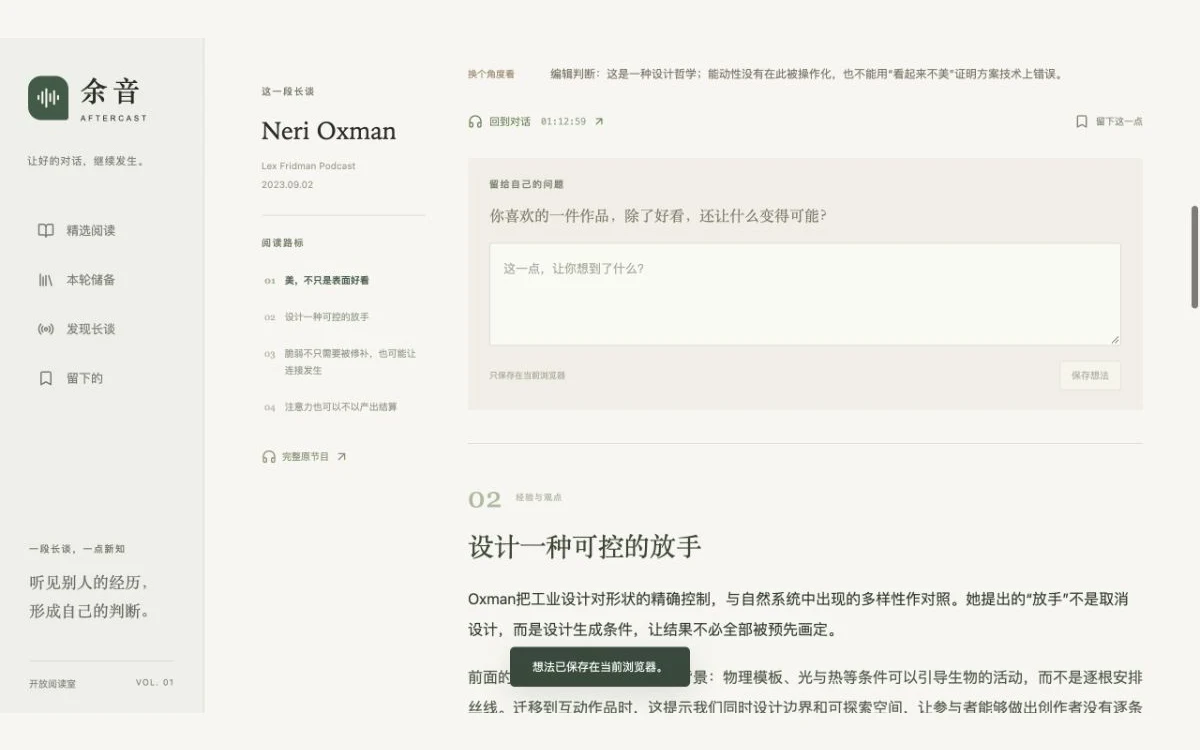
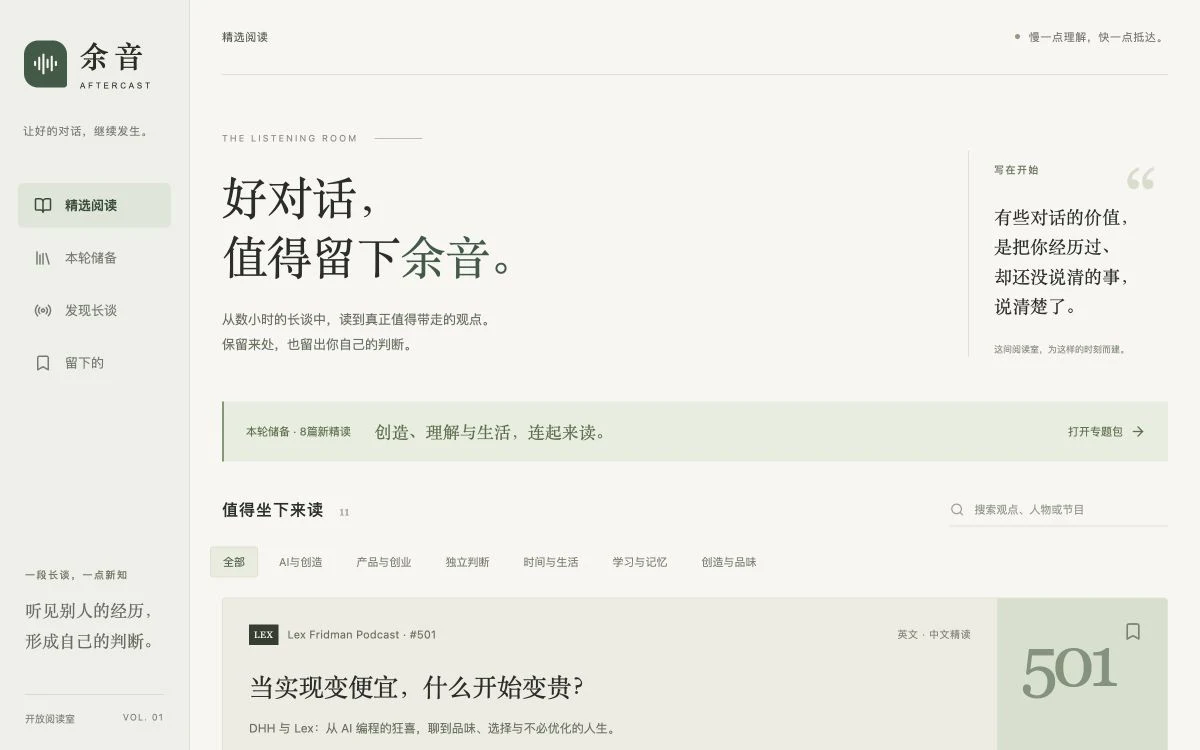
更新余音正式首页封面与首次上线校验记录

diff --git a/docs/ASSETS.md b/docs/ASSETS.md
@@ -162,7 +162,7 @@
 
 ## 2026-10-16 · 余音播客精读
 
-`aftercast.webp`来自余音公开发布构建的真实浏览器截图（原截图1200×675），本轮在隔离本地静态预览读取；测试笔记已清空，未包含私人资料。完整画面纸色补边为1200×750，WebP quality88、sRGB，未重排或伪造产品界面。正式URL为https://aftercast.fangs.cc/；上线后独立回读确认同一构建。原图留余音本机临时发布证据，Hi保留该正式封面。
+`aftercast.webp`来自https://aftercast.fangs.cc/正式首页的真实浏览器截图（1200×750），拍摄前已回读首页标题与视口；测试笔记已清空，未包含私人资料。完整画面保留为1200×750，WebP quality88、sRGB，未重排或伪造产品界面。正式URL为https://aftercast.fangs.cc/；上线后独立回读确认同一构建。原图留余音本机临时发布证据，Hi保留该正式封面。
 
 
 ## 《紫玻璃菇和蘑菇维度》第五集（2026-10-13）
